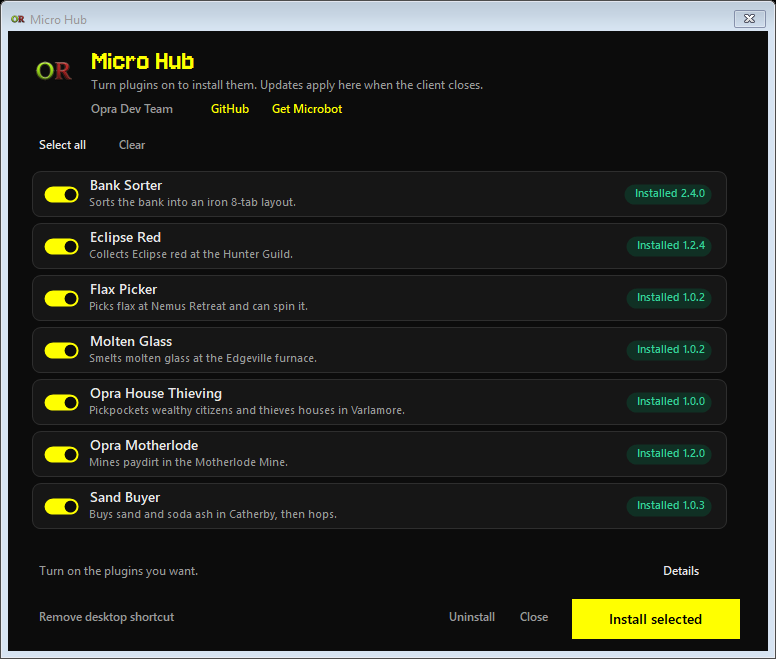
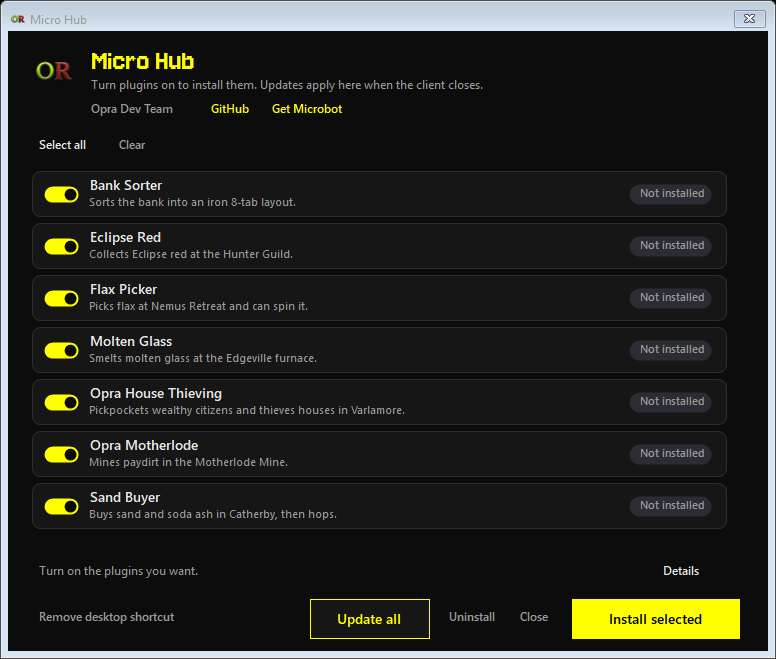
update

diff --git a/src/main/java/net/runelite/client/plugins/microbot/banksorter/BankSorterPlugin.java b/src/main/java/net/runelite/client/plugins/microbot/banksorter/BankSorterPlugin.java
@@ -33,7 +33,7 @@ import java.awt.event.MouseEvent;
 @Slf4j
 public class BankSorterPlugin extends Plugin {
     static final String CONFIG = "banksorter";
-    public static final String version = "2.4.0";
+    public static final String version = "1.1.9";
 
     @Inject
     private OverlayManager overlayManager;

diff --git a/src/main/java/net/runelite/client/plugins/microbot/eclipsered/EclipseRedPlugin.java b/src/main/java/net/runelite/client/plugins/microbot/eclipsered/EclipseRedPlugin.java
@@ -24,7 +24,7 @@ import java.time.Instant;
 )
 @Slf4j
 public class EclipseRedPlugin extends Plugin {
-    public static final String version = "1.2.4";
+    public static final String version = "1.0.9";
     static final String CONFIG = "eclipsered";
 
     public Instant scriptStartTime;

diff --git a/README.md b/README.md
@@ -9,10 +9,10 @@ Each plugin is its own jar. The client loads them from your local plugin folder 
 
 | Plugin | Version | Minimum client | Jar |
 | --- | --- | --- | --- |
-| [Opra] Bank Sorter | 2.4.0 | 2.0.7 | `dist/BankSorterPlugin.jar` |
+| [Opra] Bank Sorter | 1.1.9 | 2.0.7 | `dist/BankSorterPlugin.jar` |
 | [Opra] Sand Buyer | 1.0.3 | 1.9.6 | `dist/SandBuyerPlugin.jar` |
 | [Opra] Molten Glass | 1.0.2 | 1.9.6 | `dist/MoltenGlassPlugin.jar` |
-| [Opra] Eclipse Red | 1.2.4 | 1.9.6 | `dist/EclipseRedPlugin.jar` |
+| [Opra] Eclipse Red | 1.0.9 | 1.9.6 | `dist/EclipseRedPlugin.jar` |
 | [Opra] Flax Picker | 1.0.2 | 1.9.6 | `dist/FlaxPickerPlugin.jar` |
 | [Opra] Motherlode Mine | 1.2.0 | 1.9.8 | `dist/OpraMotherlodePlugin.jar` |
 | [Opra] House Thieving | 1.0.0 | 2.0.7 | `dist/OpraHouseThievingPlugin.jar` |
